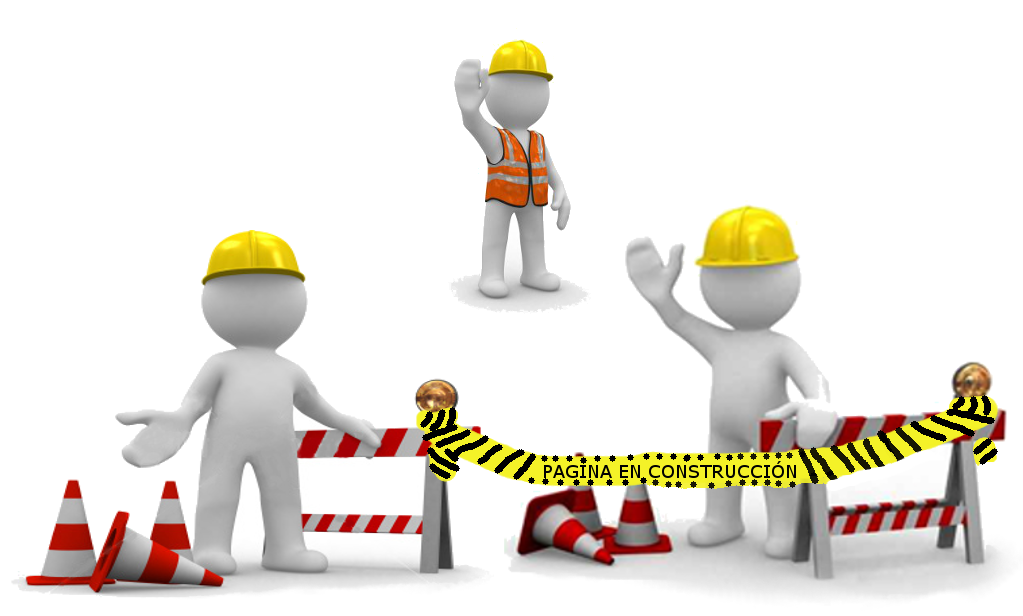
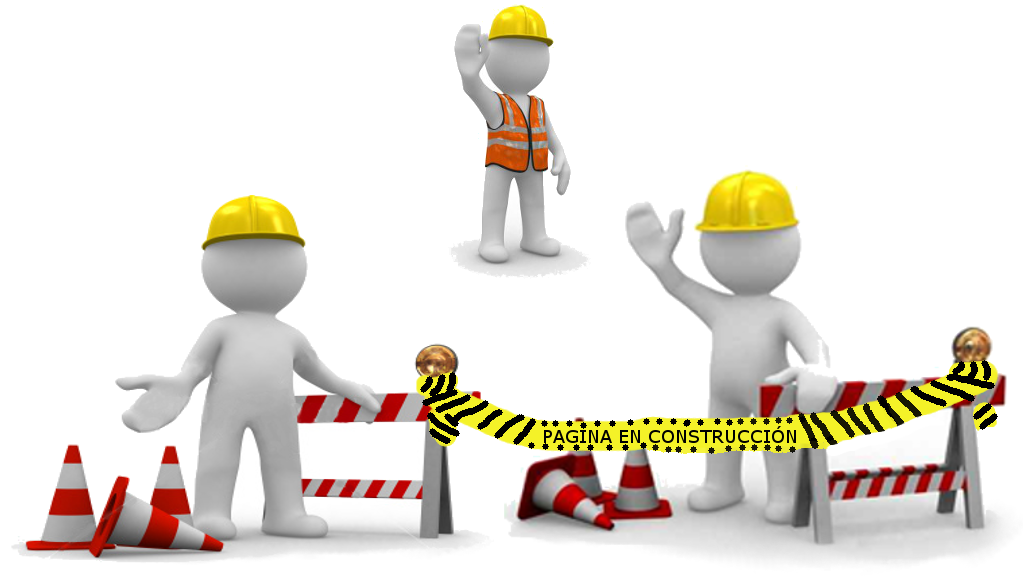
construccion...

diff --git a/templates/Proyecto/Construccion.html b/templates/Proyecto/Construccion.html
@@ -1,1 +1,3 @@
+<center><h1>EQUIPO R05 - INGENIERíA DE SOFTWARE II</h1></center>
+<center><h4>Trabajamos para su comodidad!!!</h4></center>
 <center><img src="{{ STATIC_URL }}Imagenes/images/construccion.png" /></center>
